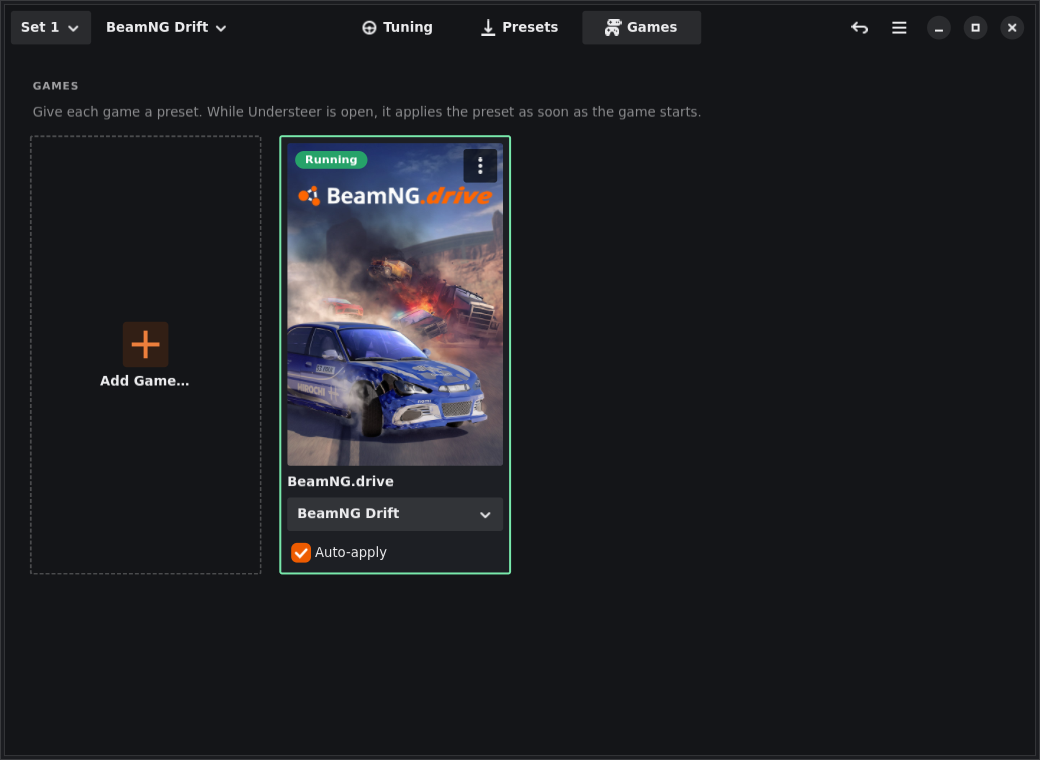
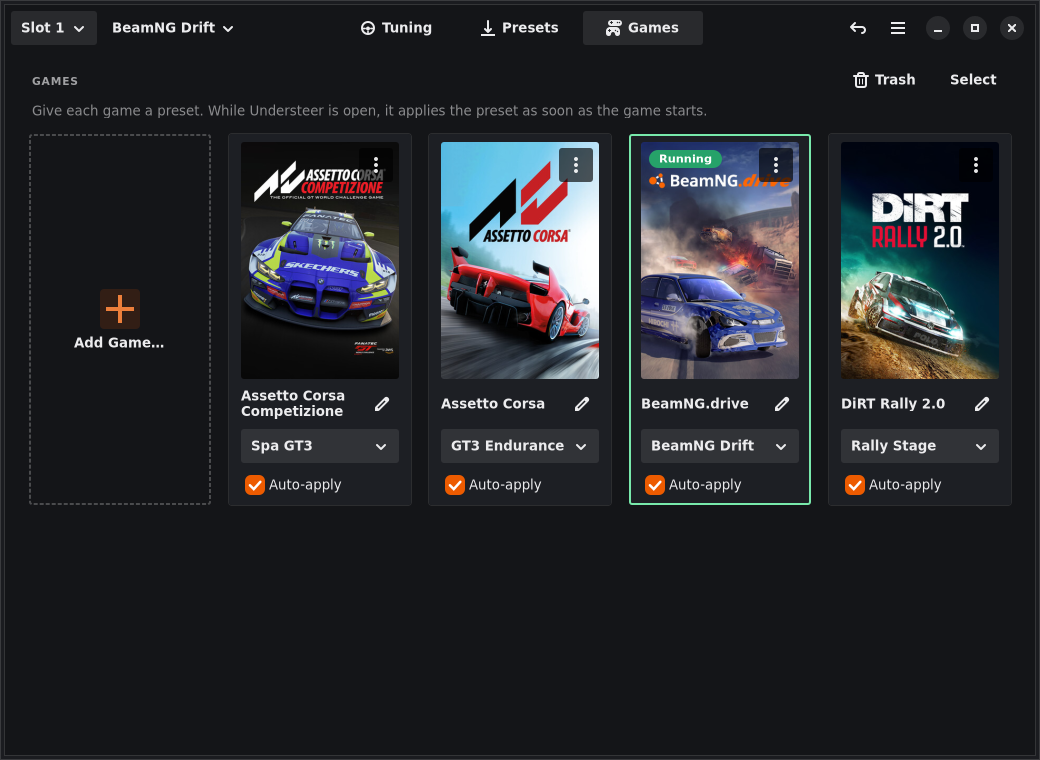
Show the new tiles, Trash and Select in the screenshots
Game tiles: the preset choice shows only the preset's name and ends in
an ellipsis, so a long folder name no longer makes every tile as wide.

diff --git a/understeer/ui/games_page.py b/understeer/ui/games_page.py
@@ -19,6 +19,28 @@ def _steam_appid(game):
     return appid if kind == "steam" else None
 
 
+def _label_factory(texts=None):
+    """Rows of a Gtk.DropDown of strings, as labels; with texts (one per
+    row) short and ending in "…" if long, for the button."""
+    factory = Gtk.SignalListItemFactory()
+
+    def setup(_f, item):
+        label = Gtk.Label(xalign=0)
+        if texts is not None:
+            label.set_ellipsize(Pango.EllipsizeMode.END)
+            label.set_width_chars(4)
+            label.set_max_width_chars(12)
+        item.set_child(label)
+
+    def bind(_f, item):
+        item.get_child().set_label(item.get_item().get_string() if texts is None
+                                   else texts[item.get_position()])
+
+    factory.connect("setup", setup)
+    factory.connect("bind", bind)
+    return factory
+
+
 class GamesPage:
     """Builds and updates the Games page; `widget` is the page itself and
     `options` the cover settings shown in the preferences.
@@ -144,7 +166,7 @@ class GamesPage:
         self.flow.append(add)
         # In the order of the menus, a preset in a folder as "Folder – Name"
         presets = [(_("{folder} – {name}").format(folder=folder, name=name)
-                    if folder else name, path)
+                    if folder else name, path, name)
                    for folder, group in config.list_presets_by_folder()
                    for name, path in group]
         for game in self.games:
@@ -288,9 +310,14 @@ class GamesPage:
             head.append(rename)
         tile.append(head)
 
-        files = [path.name for _n, path in presets]
+        files = [path.name for _l, path, _n in presets]
         choose = Gtk.DropDown.new_from_strings(
-            [_("No Preset")] + [n for n, _p in presets])
+            [_("No Preset")] + [label for label, _p, _n in presets])
+        # The list shows "Folder – Name", the tile only the name, ending in
+        # "…" if long: else the longest would make every tile as wide
+        choose.set_factory(_label_factory(
+            [_("No Preset")] + [name for _l, _p, name in presets]))
+        choose.set_list_factory(_label_factory())
         choose.set_tooltip_text(_("Preset for this game"))
         if game["preset"] in files:
             choose.set_selected(files.index(game["preset"]) + 1)

diff --git a/README.md b/README.md
@@ -24,9 +24,11 @@ A modern, GTK4/Libadwaita graphical utility for adjusting Fanatec wheel bases an
 - **Your look:** Every setting is a tile with its value in large type, in two sizes (*Full* or *Compact*). Under *Preferences → General* you choose light, dark or system colours, one of four themes (Standard, Carbon, Midnight, Pit Lane), an accent colour and the corner radius (3 px by default).
 - **Translations:** Available in English and German, chosen automatically or under *Preferences → General*. More languages can be added easily (see below).
 
-![Presets page with a folder of BeamNG.drive presets](docs/presets.png)
+![Presets page with presets without a folder and in a folder](docs/presets.png)
 
-![Games page with BeamNG.drive running](docs/games.png)
+![Choosing presets to delete them at once](docs/select.png)
+
+![Games page with a preset for each game and BeamNG.drive running](docs/games.png)
 
 ## Prerequisites
 
